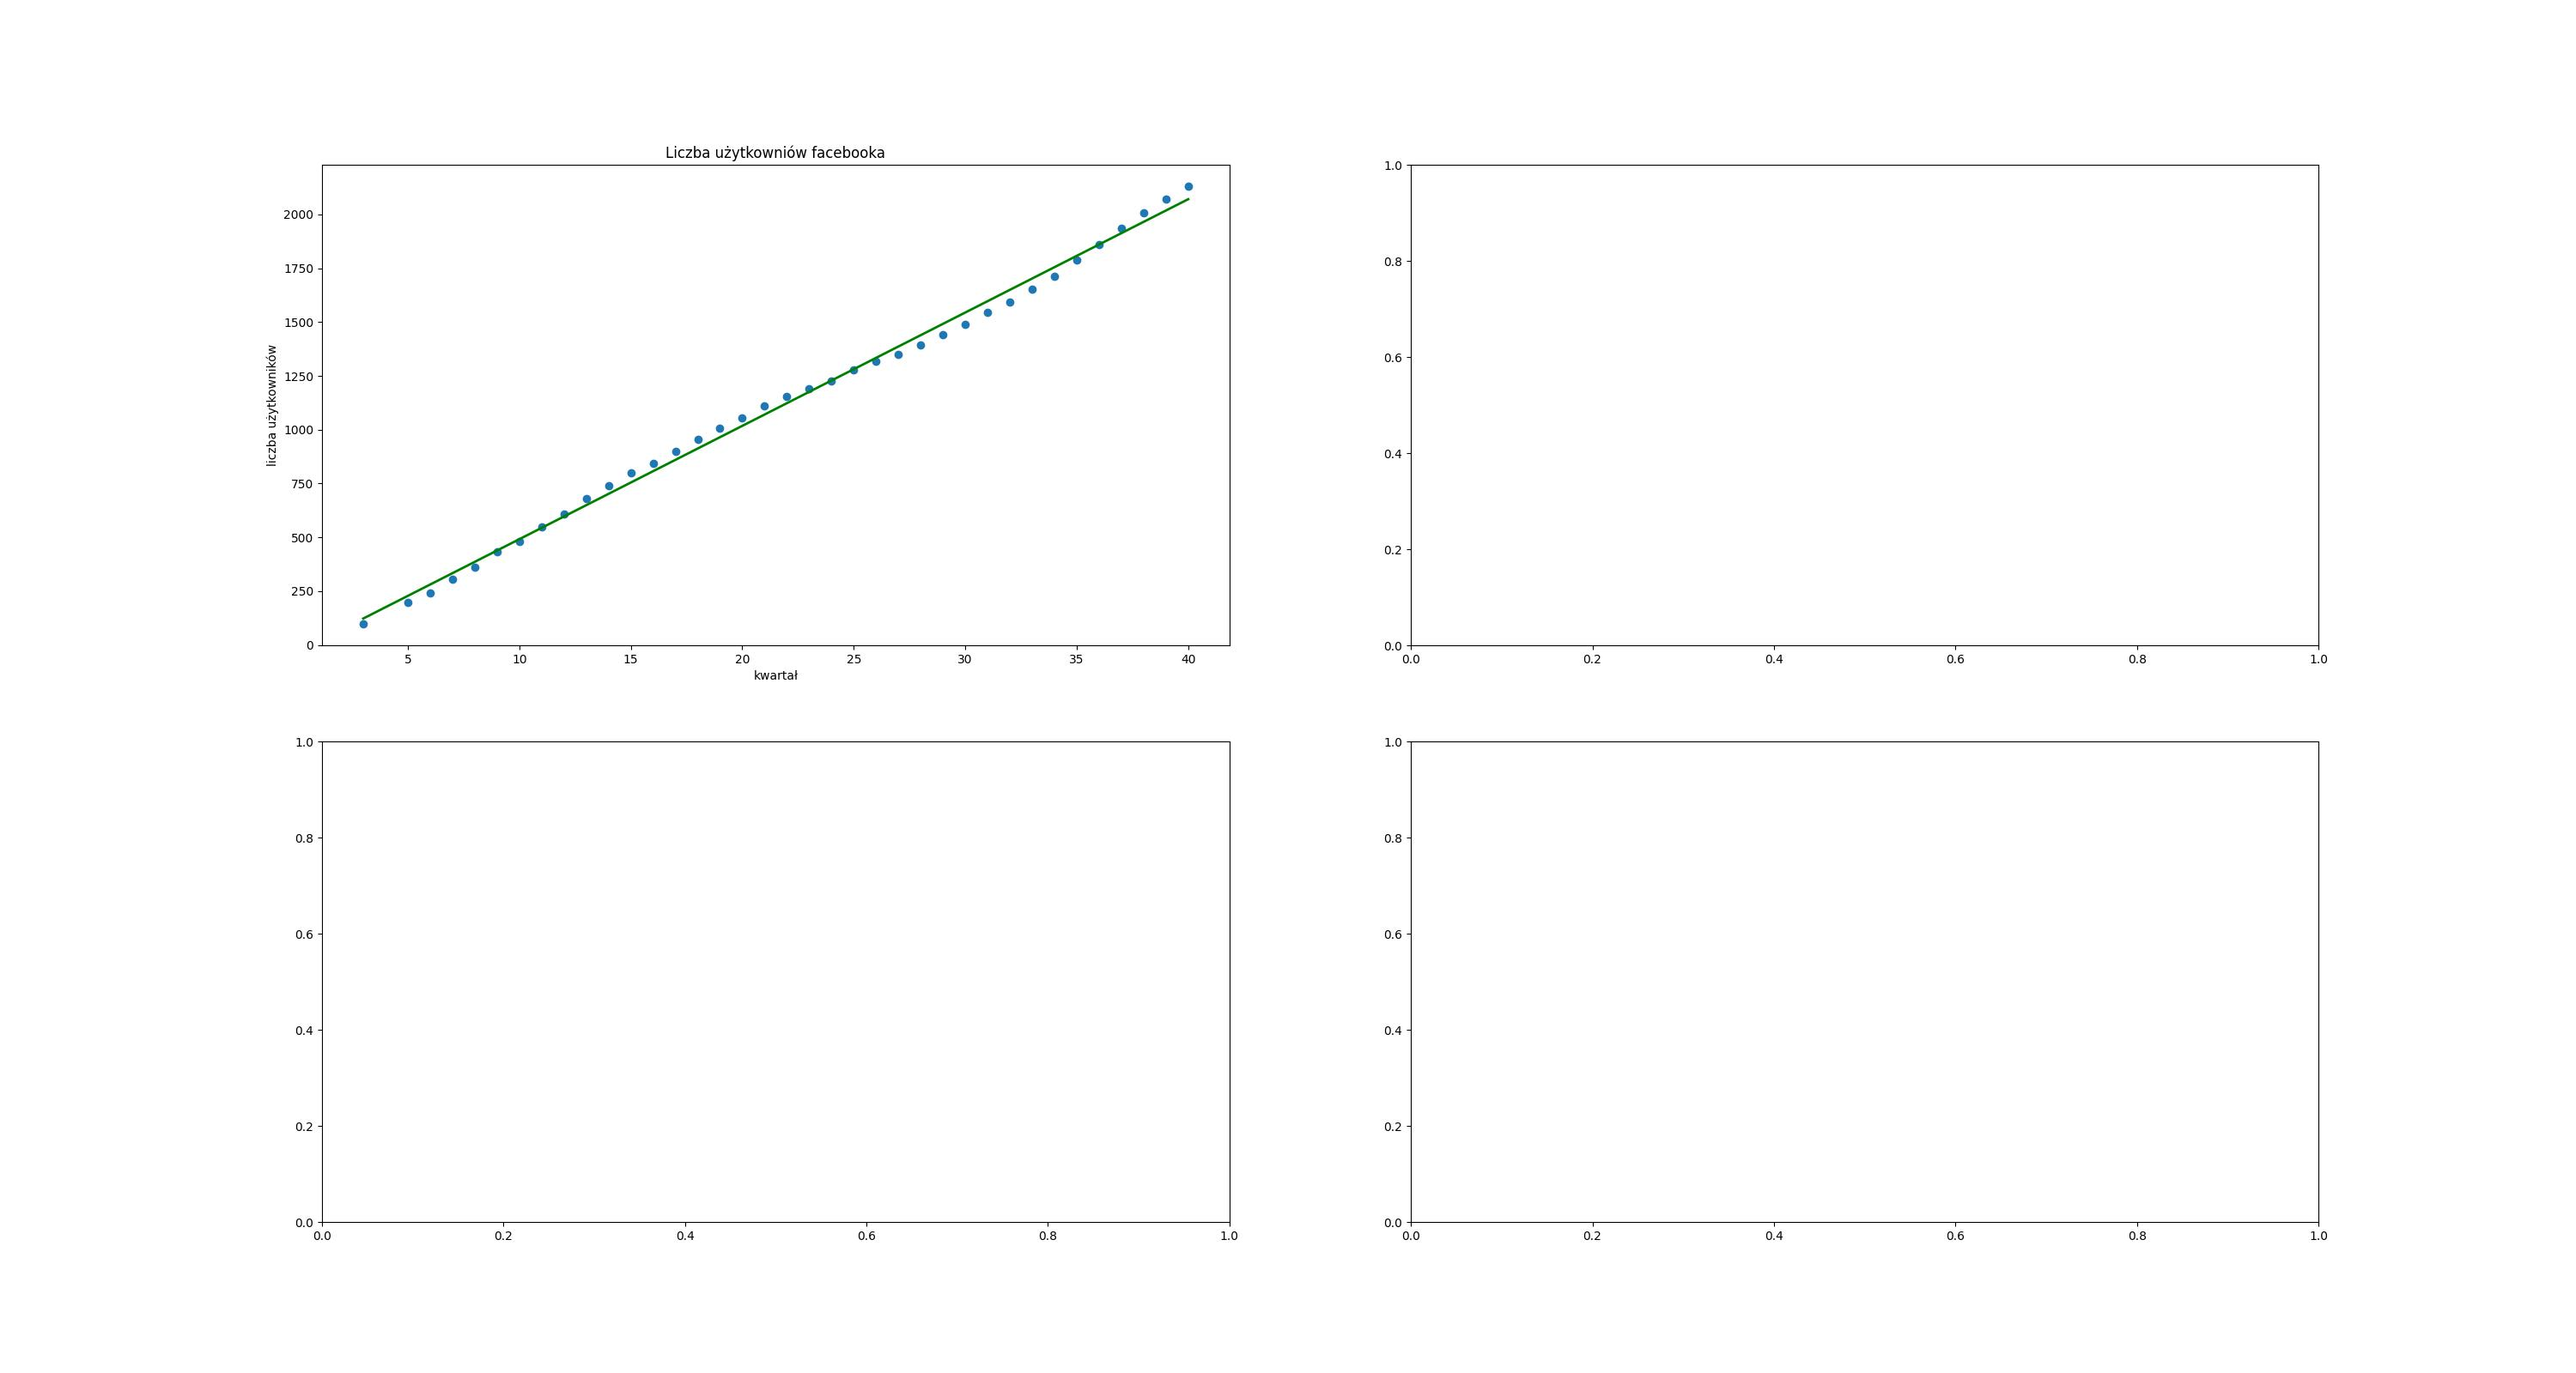
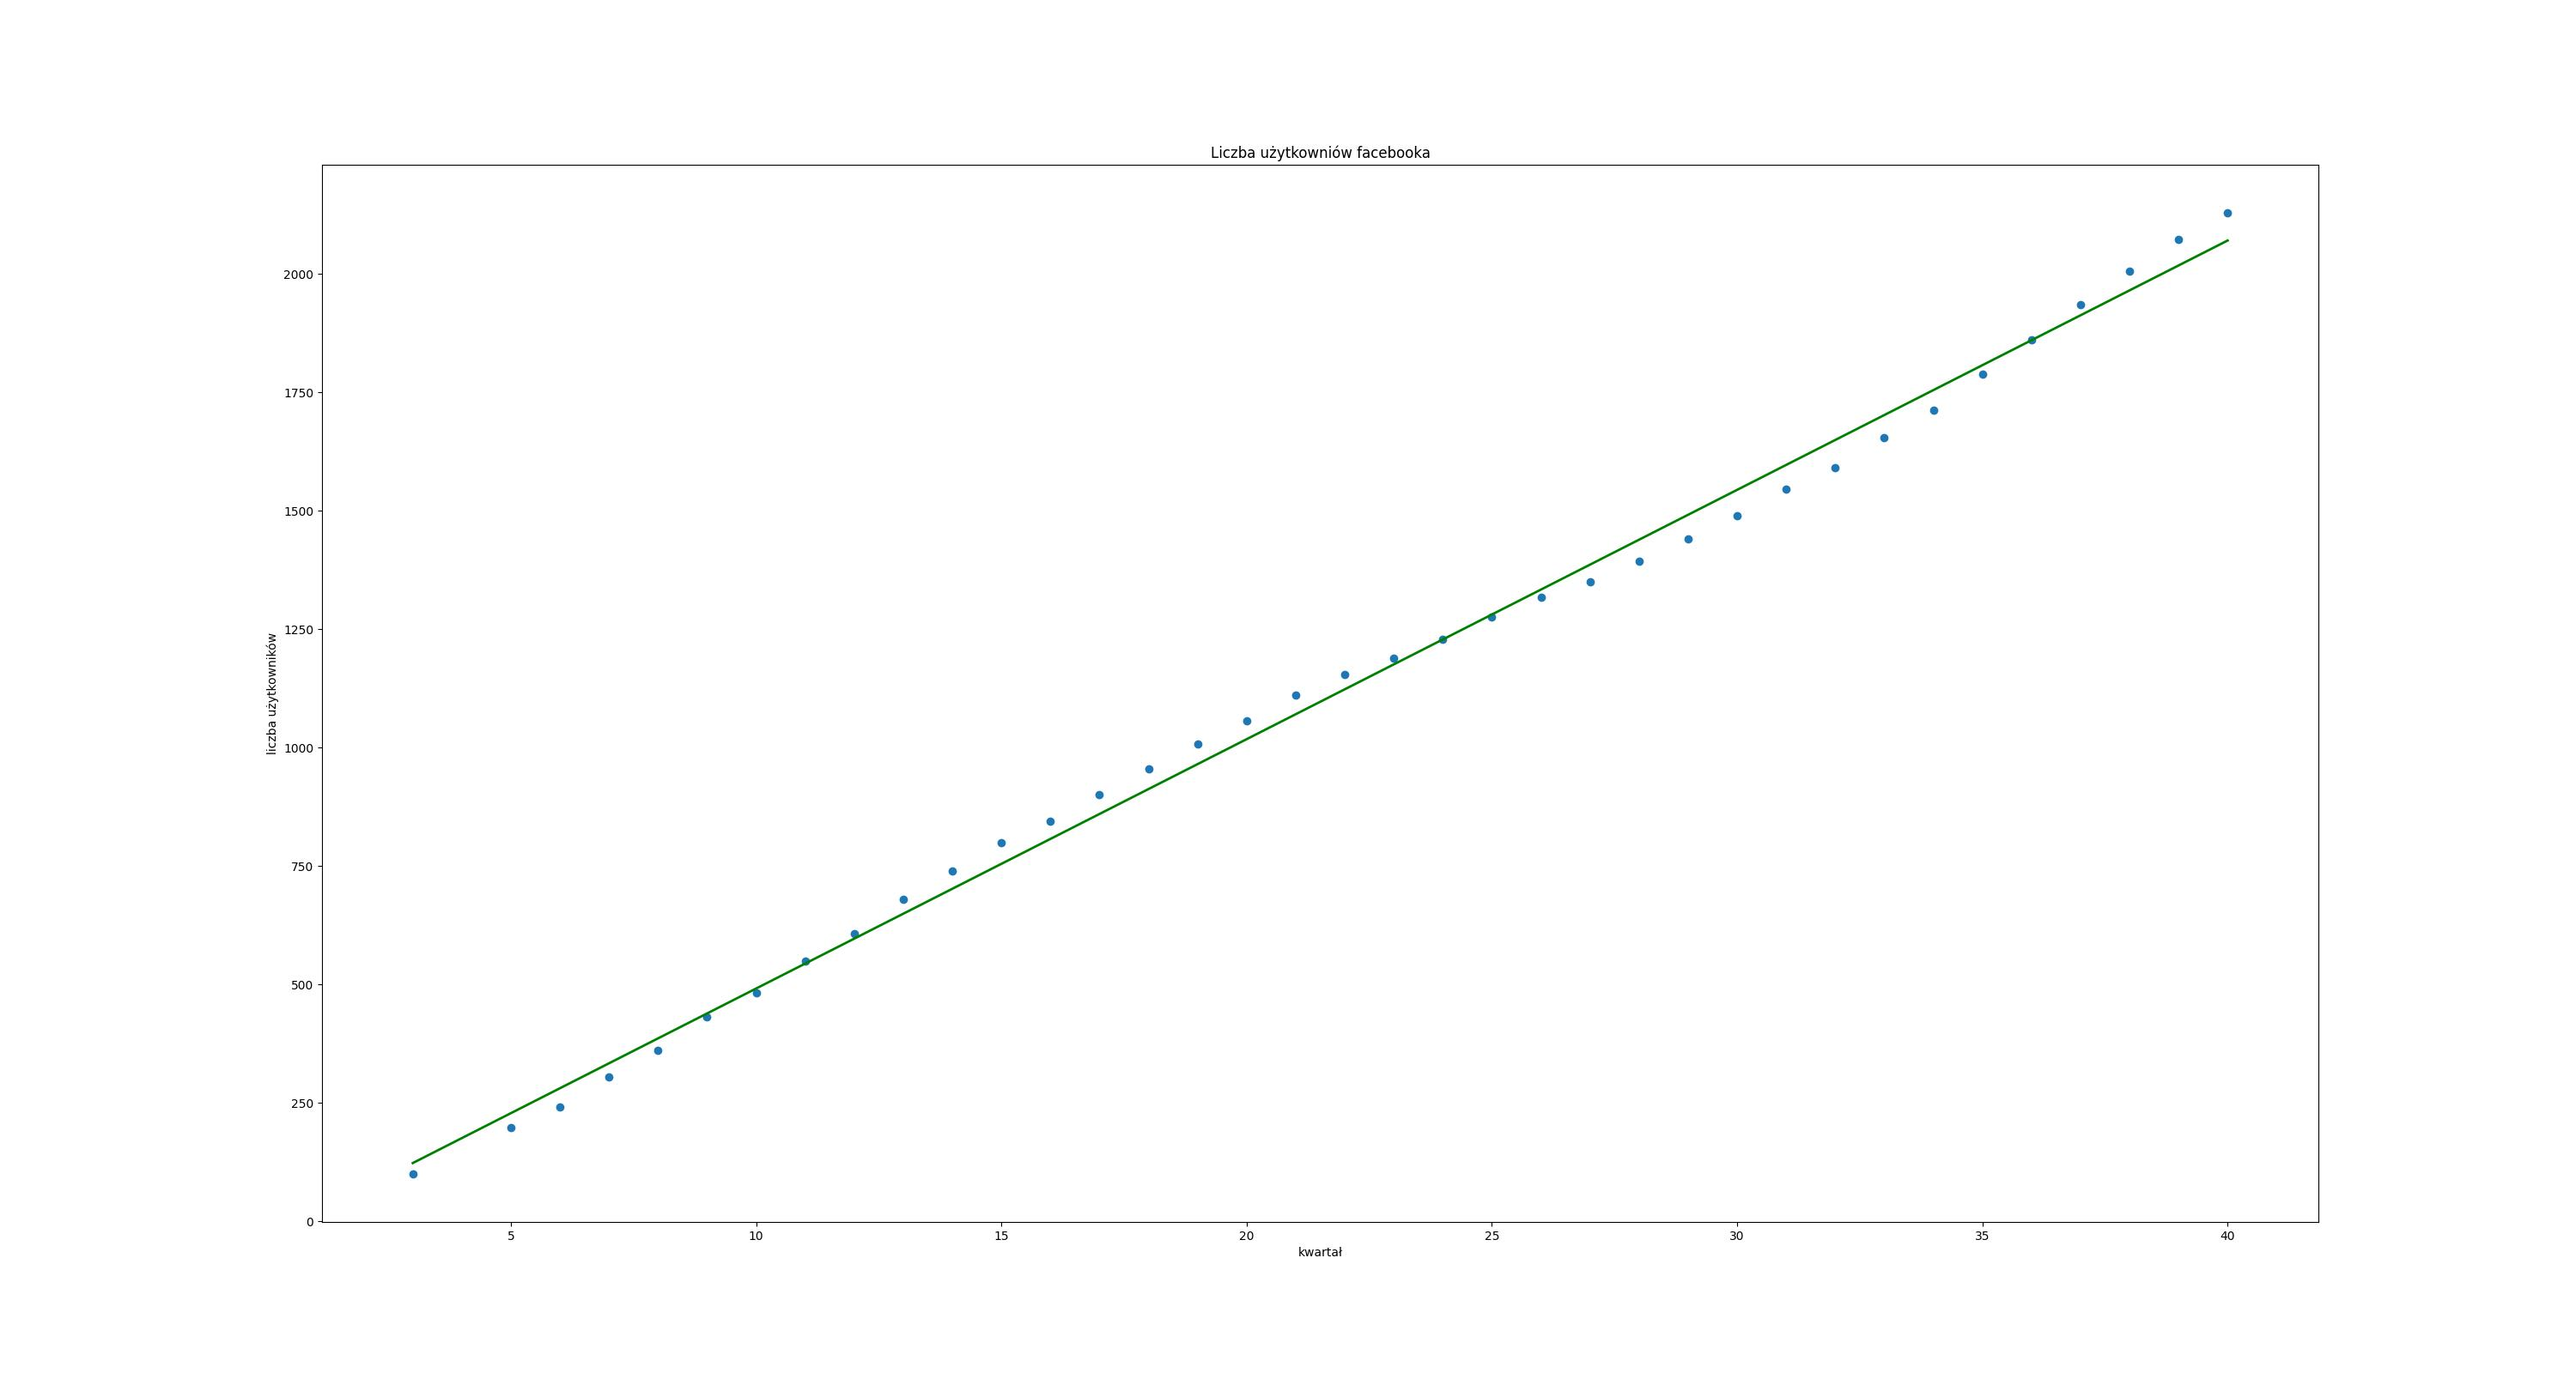
aktualne

diff --git a/facebook.py b/facebook.py
@@ -5,7 +5,7 @@ from pandas import read_excel
 import modele_funkcji as mf
 import draw_graph as draw
 
-fig, ax = plt.subplots(2, 2, figsize=(30, 16))
+fig, ax = plt.subplots(1, 1, figsize=(30, 16))
 
 
 def load_data():
@@ -25,12 +25,12 @@ def load_data():
     return quarter_index, users
 
 
-def make_plot(plot_index1, plot_index2, x, y, title, xlabel, ylabel, model):
-    ax[plot_index1, plot_index2].scatter(x, y)
-    ax[plot_index1, plot_index2].set_title(title)
-    ax[plot_index1, plot_index2].set_xlabel(xlabel)
-    ax[plot_index1, plot_index2].set_ylabel(ylabel)
-    ax[plot_index1, plot_index2].plot(x, model, 'g-', linewidth=2.0)
+def make_plot(x, y, title, xlabel, ylabel, model):
+    ax.scatter(x, y)
+    ax.set_title(title)
+    ax.set_xlabel(xlabel)
+    ax.set_ylabel(ylabel)
+    ax.plot(x, model, 'g-', linewidth=2.0)
 
 
 def build_matrices(x, y):
@@ -120,7 +120,7 @@ cov_matrix(Se2, X, X_t)
 rates(e, Y, quarter_index, users)
 prediction(1, 2018, X_t, X, Se)
 prediction(4, 2018, X_t, X, Se)
-make_plot(0, 0, quarter_index, users, 'Liczba użytkowniów facebooka', 'kwartał', 'liczba użytkowników',
+make_plot(quarter_index, users, 'Liczba użytkowniów facebooka', 'kwartał', 'liczba użytkowników',
           y_model(quarter_index))
 plt.savefig('uzytkownicy.jpg')
 plt.close()
